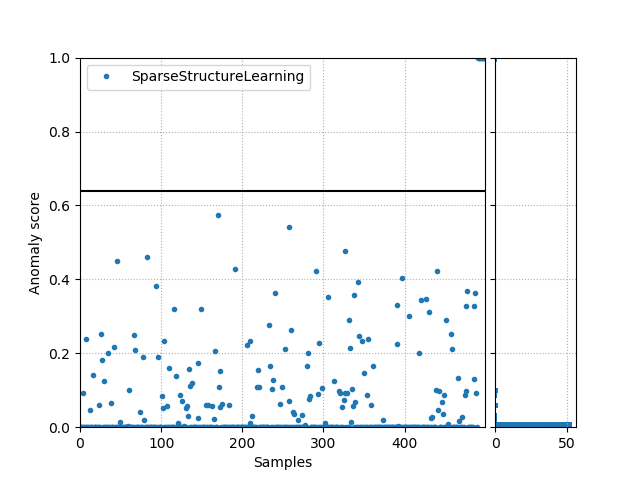
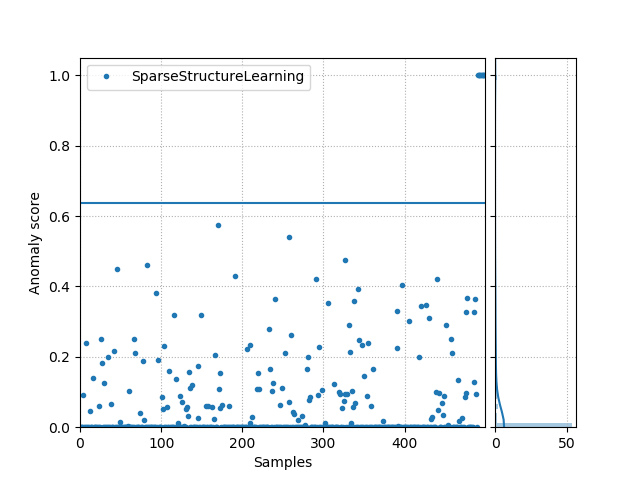
update plot_anomaly_score method

diff --git a/kenchi/visualization.py b/kenchi/visualization.py
@@ -1,4 +1,5 @@
 import numpy as np
+from scipy.stats import gaussian_kde
 from sklearn.metrics import auc, roc_curve
 from sklearn.utils.validation import check_array, check_symmetric, column_or_1d
 
@@ -9,9 +10,7 @@ __all__ = [
     'plot_partial_corrcoef'
 ]
 
-# TODO: Implement plot_featurewise_anomaly_score function
-# TODO: Update plot_anomaly_score function so that a gaussian kernel density
-# estimate can be plotted
+# TODO: Add plot_featurewise_anomaly_score function
 
 
 def plot_anomaly_score(
@@ -79,17 +78,18 @@ def plot_anomaly_score(
     import matplotlib.pyplot as plt
     from mpl_toolkits.axes_grid1 import make_axes_locatable
 
-    anomaly_score = column_or_1d(anomaly_score)
-    n_samples,    = anomaly_score.shape
+    anomaly_score       = column_or_1d(anomaly_score)
+    n_samples,          = anomaly_score.shape
+    xlocs               = np.arange(n_samples)
 
     if ax is None:
-        _, ax     = plt.subplots(figsize=figsize)
+        _, ax           = plt.subplots(figsize=figsize)
 
     if xlim is None:
-        xlim      = (0., n_samples - 1.)
+        xlim            = (0., n_samples - 1.)
 
     if ylim is None:
-        ylim      = (0., 1.1 * np.max(anomaly_score))
+        ylim            = (0., 1.05 * np.max(anomaly_score))
 
     if title is not None:
         ax.set_title(title)
@@ -100,27 +100,42 @@ def plot_anomaly_score(
     if ylabel is not None:
         ax.set_ylabel(ylabel)
 
+    line,               = ax.plot(xlocs, anomaly_score, **kwargs)
+    color               = line.get_color()
+
     if threshold is not None:
-        ax.hlines(threshold, xlim[0], xlim[1])
+        ax.hlines(threshold, xlim[0], xlim[1], color=color)
 
     ax.set_xlim(xlim)
     ax.set_ylim(ylim)
     ax.grid(grid, linestyle=':')
-    ax.plot(np.arange(n_samples), anomaly_score, **kwargs)
 
     if hist:
         # Create an axes on the right side of ax
-        divider   = make_axes_locatable(ax)
-        ax_hist_y = divider.append_axes(
+        divider         = make_axes_locatable(ax)
+        ax_hist_y       = divider.append_axes(
             'right', size='20%', pad=0.1, sharey=ax
         )
 
-        ax_hist_y.set_ylim(ylim)
-        ax_hist_y.yaxis.set_tick_params(labelleft=False)
-        ax_hist_y.grid(grid, linestyle=':')
+        kde             = gaussian_kde(anomaly_score)
+        ylocs           = np.linspace(ylim[0], ylim[1])
+
+        # Draw a histogram
         ax_hist_y.hist(
-            anomaly_score, bins=bins, density=True, orientation='horizontal'
+            anomaly_score,
+            alpha       = 0.4,
+            bins        = bins,
+            color       = color,
+            density     = True,
+            orientation = 'horizontal'
         )
+
+        # Draw a gaussian kernel density estimate
+        ax_hist_y.plot(kde(ylocs), ylocs, color=color)
+
+        ax_hist_y.yaxis.set_tick_params(labelleft=False)
+        ax_hist_y.set_ylim(ylim)
+        ax_hist_y.grid(grid, linestyle=':')
 
     if 'label' in kwargs:
         ax.legend(loc='upper left')

diff --git a/kenchi/outlier_detection/base.py b/kenchi/outlier_detection/base.py
@@ -275,10 +275,12 @@ class BaseOutlierDetector(BaseEstimator, OutlierMixin, ABC):
         kwargs['label']         = self.__class__.__name__
 
         if normalize:
-            kwargs['ylim']      = (0., 1.)
+            kwargs['ylim']      = (0., 1.05)
             kwargs['threshold'] = self.normalized_threshold_
         else:
             kwargs['threshold'] = self.threshold_
+
+        kwargs.setdefault('ylim', (0., 2. * self.threshold_))
 
         return plot_anomaly_score(
             self.anomaly_score(X, normalize=normalize), **kwargs
